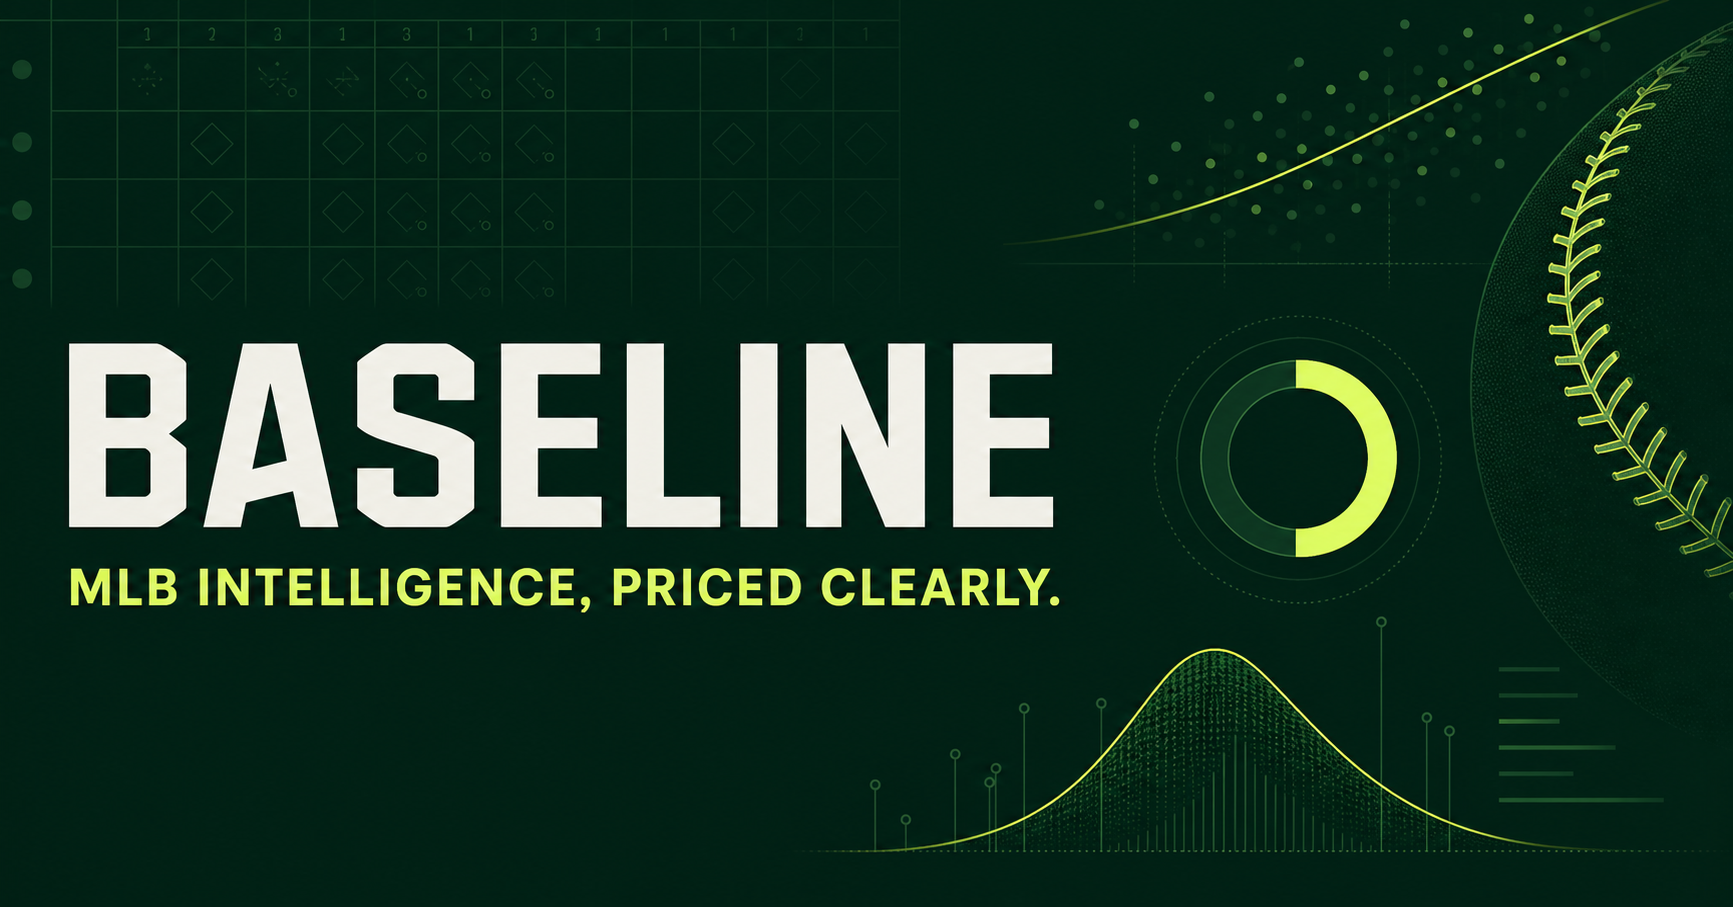
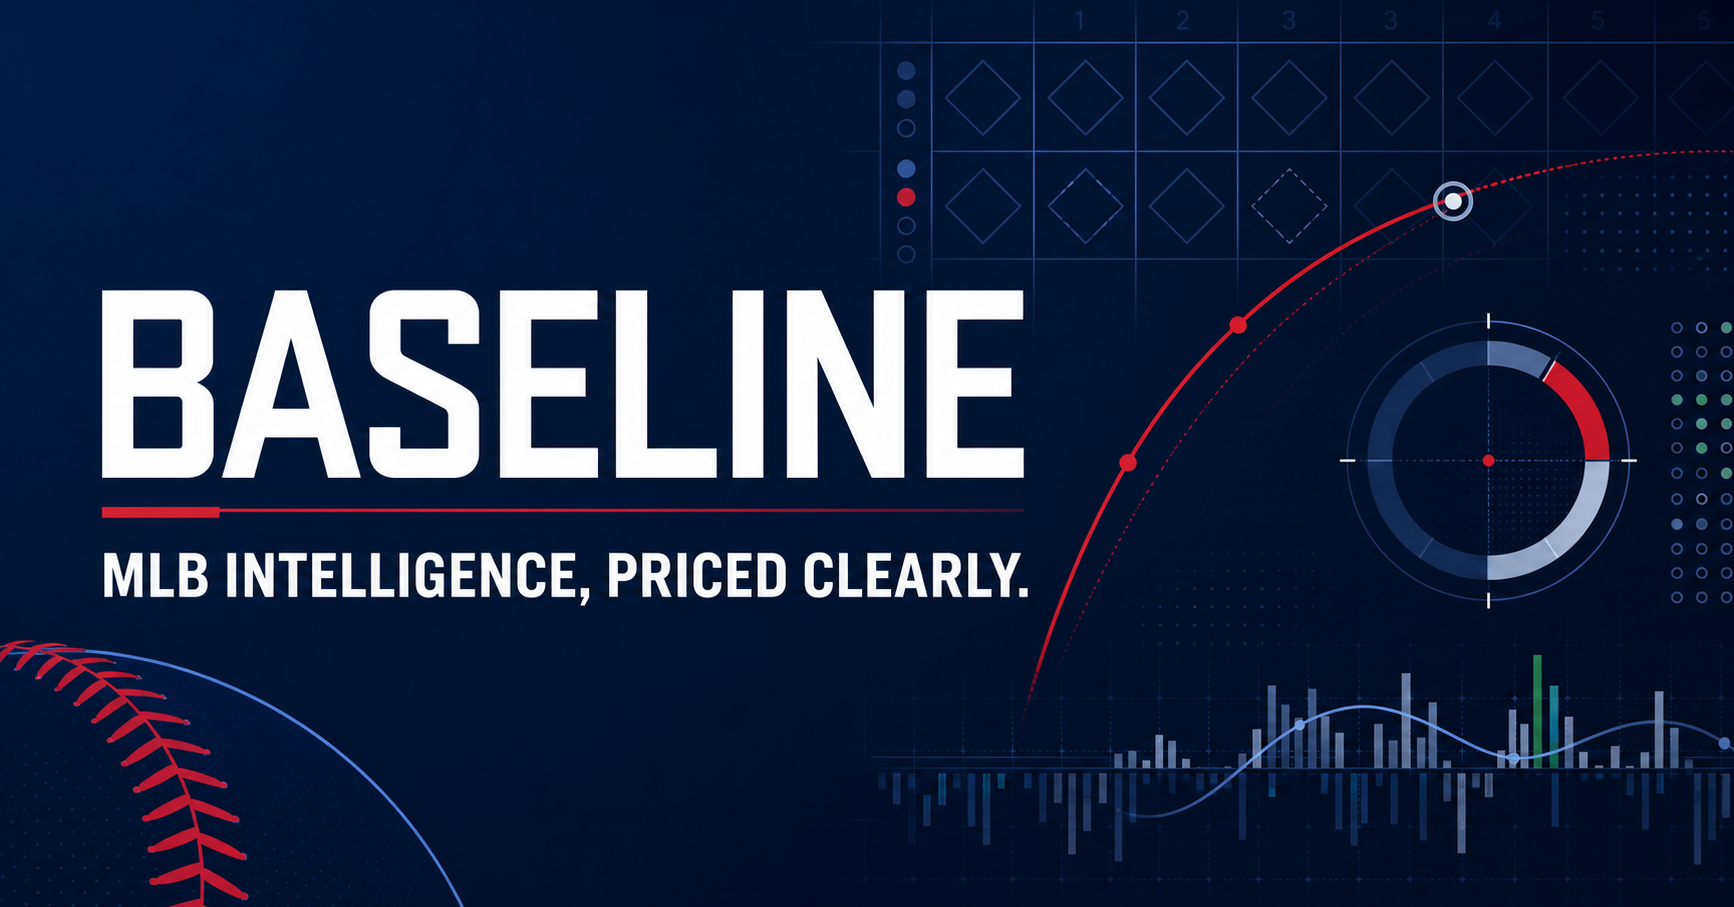
Adopt MLB-inspired visual palette

diff --git a/app/globals.css b/app/globals.css
@@ -34,3 +34,38 @@ footer { display:flex; justify-content:space-between; color:#8a958e; font-size:9
 @media(max-width:780px){.app-shell{grid-template-columns:1fr}.sidebar{position:fixed;transform:translateX(-100%);transition:.2s;width:224px}.sidebar.open{transform:none}.workspace{padding:0 16px 22px}.topbar{height:86px}.menu{display:block;border:0;background:none;font-size:20px}.topbar>div:first-of-type{margin-right:auto;margin-left:12px}.top-actions .ghost-button{display:none}.notice p{display:block;margin:2px 0 0}.section-head{align-items:flex-start;flex-direction:column}.segmented{width:100%}.table-header{display:none}.table-row{grid-template-columns:1.8fr .8fr .55fr}.table-row>span:nth-child(2),.table-row>span:nth-child(4){display:none}.metric-row,.lower-grid{grid-template-columns:1fr 1fr}.explain-card{display:block}.price-grid{display:grid}.source-list>div{grid-template-columns:31px 1fr 50px}.source-list time{display:none}}
 @media(max-width:520px){.top-actions .primary-button{font-size:0;padding:10px}.top-actions .primary-button span{font-size:16px;margin:0}.metric-row,.lower-grid{grid-template-columns:1fr}.table-row{padding:11px 13px}.section-head{padding-left:15px;padding-right:15px}.table-foot{padding:12px 14px}.table-foot span{display:none}.source-list>div,.check-list>div{padding-left:15px;padding-right:15px}footer{display:grid;gap:5px}.explain-card{padding:16px}}
 @media(prefers-reduced-motion:reduce){*{scroll-behavior:auto!important;transition:none!important}}
+
+/* MLB-inspired brand palette — layout and semantic status colors stay unchanged. */
+:root { --ink:#13233f; --muted:#687386; --line:#dce2eb; --paper:#f4f6f9; --lime:#d50032; --mlb-navy:#002d72; --mlb-red:#d50032; --mlb-blue:#0057b8; }
+.sidebar { background:#001f4e; color:#e6edf7; }
+.logo-mark { color:#fff; background:var(--mlb-red); }
+.nav-link { color:#aab9cf; }
+.nav-link:hover,.nav-link.active { background:#0c3265; }
+.system-dot { color:#aab9cf; }
+.user-chip { border-color:#244b7c; background:#0a2b5a; }
+.user-chip span { background:#244b7c; }
+.user-chip small { color:#c4d0df; }
+.ghost-button { border-color:#d7dde7; }
+.primary-button,.detail-button { background:var(--mlb-navy); border-color:var(--mlb-navy); }
+.primary-button span,.detail-button span { color:#fff; }
+.segmented { border-color:#dbe1e9; background:#f5f7fa; }
+.segmented button { color:#748093; }
+.segmented button.active { color:var(--mlb-navy); box-shadow:0 1px 4px #13233f18; }
+.pick-table { border-color:#edf0f4; }
+.table-row { border-color:#edf0f4; }
+.table-row:not(.table-header):hover,.table-row.selected { background:#f3f7fd; }
+.table-row.selected { box-shadow:inset 3px 0 var(--mlb-red); }
+.table-header { color:#7c8798; background:#fafbfd; }
+.selection small { color:#7c8798; }
+.team-badge.navy { background:var(--mlb-navy); }
+.team-badge.red { background:var(--mlb-red); }
+.team-badge.blue { background:var(--mlb-blue); }
+.market-pill { color:#647083; background:#f0f3f7; }
+.table-foot { color:#788396; }
+.table-foot button,.text-button { color:var(--mlb-blue); }
+.confidence { background:conic-gradient(var(--mlb-blue) var(--score),#e8ecf2 0); }
+.price-grid { background:#f5f7fa; }
+.price-grid>div { border-color:#dfe4ec; }
+.driver-list>div>span { background:#e8f0fb; color:var(--mlb-blue); }
+.driver-list p { color:#6e7889; }
+.source-icon { background:#e9eff8; color:var(--mlb-navy); }
